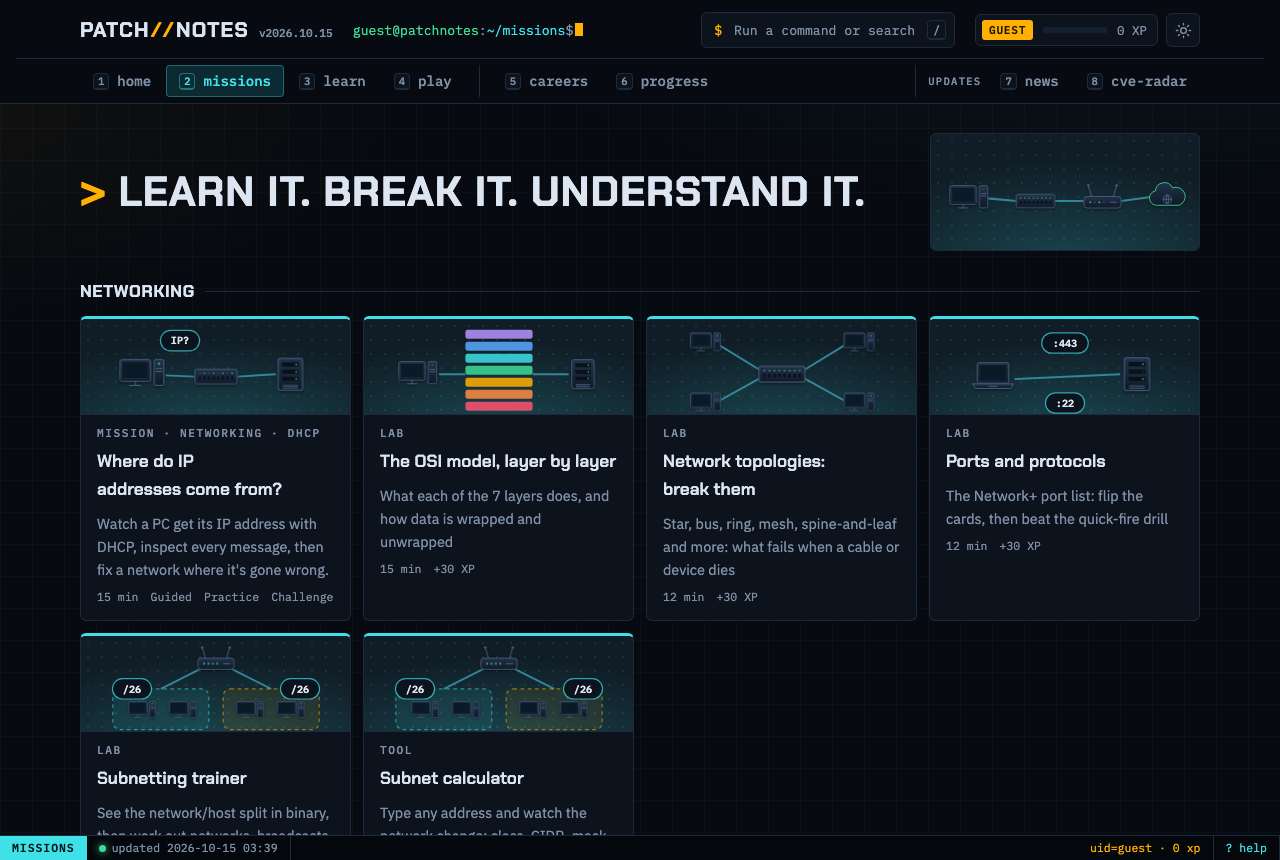
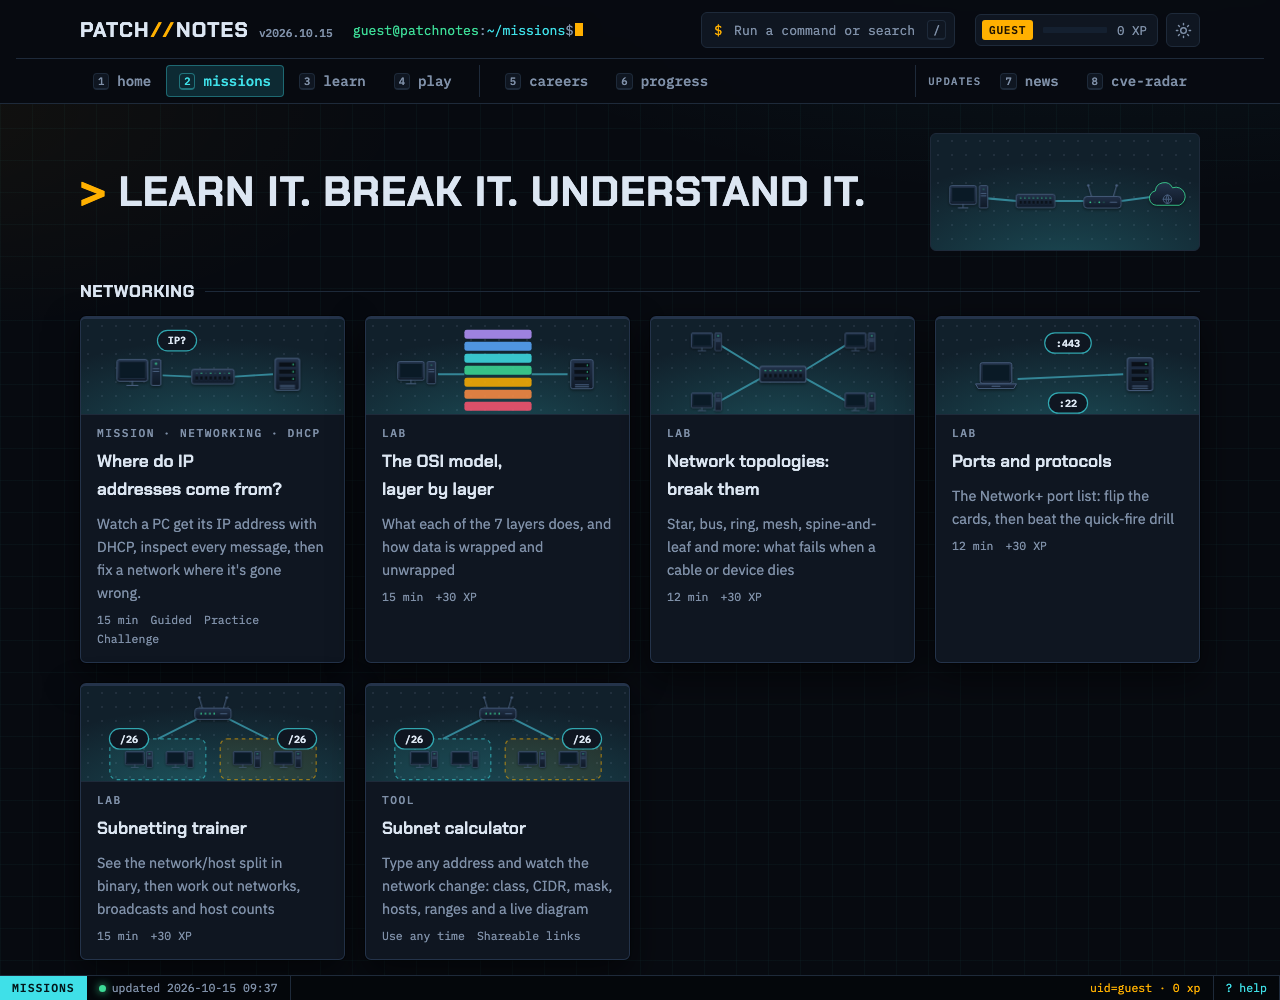
Fix hero animation glitches; clearer card separation; one accent colour
- Hero: drop the pop transform that briefly drew a second copy of a device
  in Safari, and start packets mid-journey instead of parked in the corner
- Cards and panels get the light theme's lift in dark mode too: shadow
  elevation, a top highlight, firmer borders, more space between cards
- One accent colour for every card and header; red and green only where
  they mean attack or success
- Learn page grouped into Foundations, Threats, Defence and Web attacks;
  filter chips in the same order; progress counter no longer wraps

diff --git a/site_template.html b/site_template.html
@@ -12,7 +12,7 @@
    panels styled as terminal windows, and a tmux-style status bar pinned to the bottom on wide screens. Deliberately one dark world. */
 :root {
   --bg: #070A10;          /* console black, blue-biased */
-  --surface: #0D131C;     /* panel */
+  --surface: #0F1621;     /* panel */
   --surface-2: #142030;   /* raised / hover */
   --ink: #DCE6F2;
   --muted: #7F90A8;
@@ -45,6 +45,9 @@
   --faint: #3A4A60; --statusbar: #04070B;
   --dg-line: #2B3D55; --dg-box: #24344A; --dg-strong: #4D6280;
   --hw-stroke: #4A6080; --hw-screen: #0A1A26; --hw-port: #0A1018; --hw-top: #22324A; --hw-bot: #101A28; --hw-shadow: rgba(0, 0, 0, 0.45);
+  --card-line: #24334A;
+  --elev: inset 0 1px 0 rgba(255, 255, 255, 0.05), 0 0 0 1px rgba(0, 0, 0, 0.4), 0 14px 34px rgba(0, 0, 0, 0.55);
+  --elev-hover: inset 0 1px 0 rgba(255, 255, 255, 0.07), 0 0 0 1px rgba(0, 0, 0, 0.4), 0 18px 44px rgba(0, 0, 0, 0.65), 0 0 28px rgba(63, 224, 232, 0.1);
   --sev-critical: #FFB000; --sev-high: #A8740F; --sev-other: #5E4614;
   color-scheme: dark;
 }
@@ -67,6 +70,9 @@
   --faint: #B3BFCF; --statusbar: #E2E8F0;
   --dg-line: #9FB1C7; --dg-box: #B9C6D7; --dg-strong: #7F93AE;
   --hw-stroke: #6F84A0; --hw-screen: #DCE7F2; --hw-port: #E7EDF5; --hw-top: #FFFFFF; --hw-bot: #D9E2EE; --hw-shadow: rgba(15, 27, 45, 0.18);
+  --card-line: #CDD6E3;
+  --elev: 0 1px 2px rgba(15, 27, 45, 0.06), 0 10px 28px rgba(15, 27, 45, 0.1);
+  --elev-hover: 0 2px 4px rgba(15, 27, 45, 0.08), 0 16px 40px rgba(15, 27, 45, 0.16);
   --sev-critical: #7A4300; --sev-high: #B87A12; --sev-other: #E0B866;
   color-scheme: light;
 }
@@ -287,6 +293,7 @@ details.explain summary { cursor: pointer; font-weight: 700; color: var(--brand)
 .lcard .lmeta span { white-space: nowrap; }
 .lcard .done { position: absolute; top: 14px; right: 14px; font: 700 0.7rem var(--font-mono); color: var(--good); background: var(--good-tint); border-radius: 999px; padding: 3px 8px; }
 .progress { display: flex; align-items: center; gap: 12px; font-size: 0.88rem; color: var(--muted); }
+.progress > span:last-child { white-space: nowrap; }
 .progress .trk { flex: 0 1 240px; height: 8px; border-radius: 4px; background: var(--surface-2); overflow: hidden; }
 .progress .trk i { display: block; height: 100%; background: var(--good); }
 .article { display: grid; gap: 22px; max-width: 760px; }
@@ -617,6 +624,7 @@ body.has-status .toast { bottom: calc(44px + env(safe-area-inset-bottom, 0px)); 
 @media (max-width: 900px) { .mission-grid { grid-template-columns: 1fr; } .bubble { max-width: 60%; font-size: 0.7rem; } }
 
 /* ---------- Illustrated cards ---------- */
+.art-card, .card-art { --cat: var(--brand); }
 .art-card { padding-top: 0; overflow: hidden; border-top: 3px solid var(--cat); }
 .card-art { display: grid; place-items: center; height: 96px; margin-inline: -16px; margin-bottom: 4px; background: radial-gradient(120% 140% at 50% 120%, color-mix(in srgb, var(--cat) 22%, transparent), transparent 70%), color-mix(in srgb, var(--cat) 5%, var(--surface)); background-image: radial-gradient(120% 140% at 50% 120%, color-mix(in srgb, var(--cat) 22%, transparent), transparent 70%), radial-gradient(rgba(127, 144, 168, 0.14) 1px, transparent 1.2px); background-size: auto, 14px 14px; border-bottom: 1px solid var(--line); overflow: hidden; }
 .card-art svg { width: 100%; max-width: 240px; height: 100%; overflow: visible; }
@@ -637,8 +645,6 @@ body.has-status .toast { bottom: calc(44px + env(safe-area-inset-bottom, 0px)); 
 .needle { transform-box: fill-box; transform-origin: 100% 100%; }
 .art-card:hover { border-color: var(--cat); border-top-color: var(--cat); box-shadow: 0 12px 32px color-mix(in srgb, var(--cat) 20%, transparent); }
 @media (prefers-reduced-motion: no-preference) {
-  .card-art svg { transition: transform 0.35s cubic-bezier(0.2, 0.8, 0.2, 1); }
-  .art-card:hover .card-art svg { transform: scale(1.06); }
   .needle { transition: transform 0.7s cubic-bezier(0.3, 1.6, 0.5, 1); }
   .art-card:hover .needle { transform: rotate(118deg); }
   .blink { animation: hw-blink 1s steps(1) infinite; }
@@ -854,7 +860,7 @@ body.has-status .toast { bottom: calc(44px + env(safe-area-inset-bottom, 0px)); 
 .hero-dev.sel .lbl, .hero-dev:hover .lbl { fill: var(--brand); }
 .hero-cap { min-height: 3.2em; margin: 0; font-size: 0.88rem; color: var(--muted); }
 .hero-cap b { color: var(--ink); font-family: var(--font-display); }
-@media (prefers-reduced-motion: no-preference) { .hero-dev .halo { transition: opacity 0.2s; } .hero-dev.sel .hw { animation: hw-pop 0.35s ease-out; } @keyframes hw-pop { 40% { transform: var(--t) scale(1.12); } } }
+@media (prefers-reduced-motion: no-preference) { .hero-dev .halo { transition: opacity 0.2s; } }
 @media (max-width: 760px) { .hero { grid-template-columns: minmax(0, 1fr); } .hero-net .lbl { font-size: 12.5px; } }
 @media (prefers-reduced-motion: reduce) { .hero-net .pkt { display: none; } }
 /* Theme toggle */
@@ -994,6 +1000,14 @@ body.has-status .toast { bottom: calc(44px + env(safe-area-inset-bottom, 0px)); 
   .btn.brand::after { content: ""; position: absolute; inset: 0; background: linear-gradient(110deg, transparent 35%, rgba(255, 255, 255, 0.45) 50%, transparent 65%); transform: translateX(-120%); pointer-events: none; }
   .btn.brand:hover::after { transform: translateX(120%); transition: transform 0.7s ease; }
 }
+
+/* Elevation: cards and panels sit clearly above the page in both themes */
+.panel, .lcard, .path, .stat, .gl-item, .changelog { box-shadow: var(--elev); }
+.panel, .lcard, .path, .stat, .gl-item { border-color: var(--card-line); }
+.lcard:hover, .art-card:hover { box-shadow: var(--elev-hover); border-color: rgba(var(--brand-rgb), 0.55); }
+.lessons { gap: 20px; }
+.paths { gap: 18px; }
+.stat-row { gap: 14px; }
 </style>
 
 <!-- recon complete. you found flag 1 of 3: flag{v1ew_s0urce_is_r3con}  (submit it in the command palette: press / then type "submit" and the flag) -->
@@ -1370,10 +1384,10 @@ function heroNet() {
   return `<div class="hero-art"><svg class="hero-net hw-live" viewBox="0 0 470 250" role="group" aria-label="A small network. Select a device to learn what it does.">
     ${HERO_LINKS.map(([a, b]) => `<line class="ln" x1="${P(a)[1]}" y1="${P(a)[2]}" x2="${P(b)[1]}" y2="${P(b)[2]}"/>`).join("")}
     <line class="ln air" x1="46" y1="130" x2="150" y2="44"/>
-    ${HERO_PATHS.map((d, i) => `<circle class="pkt p${i + 1}" r="5"><animateMotion dur="${3.6 + i * 0.6}s" begin="${i * 1.2}s" repeatCount="indefinite" path="${d}" calcMode="linear"/></circle>`).join("")}
+    ${HERO_PATHS.map((d, i) => `<circle class="pkt p${i + 1}" r="5"><animateMotion dur="${3.6 + i * 0.6}s" begin="${-i * 1.2}s" repeatCount="indefinite" path="${d}" calcMode="linear"/></circle>`).join("")}
     ${HERO_DEV.map(([k, x, y, label, side]) => `<g class="hero-dev" data-k="${k}" tabindex="0" role="button" aria-label="${esc(HW_INFO[k][0])}: ${esc(HW_INFO[k][1])}">
       <rect class="halo" x="${x - 34}" y="${y - 30}" width="68" height="${label ? 72 : 60}" rx="12"/>
-      <g style="--t: translate(${x}px, ${y}px)">${hw(k, x, y, 0.72)}</g><text class="lbl" ${side ? `x="${x + 26}" y="${y + 4}" style="text-anchor:start"` : `x="${x}" y="${y + 33}"`}>${esc(label)}</text></g>`).join("")}
+      ${hw(k, x, y, 0.72)}<text class="lbl" ${side ? `x="${x + 26}" y="${y + 4}" style="text-anchor:start"` : `x="${x}" y="${y + 33}"`}>${esc(label)}</text></g>`).join("")}
   </svg><p class="hero-cap" id="hero-cap" aria-live="polite">Tap any device to see what it does.</p></div>`;
 }
 function wireHero() {
@@ -1867,8 +1881,10 @@ document.addEventListener("click", e => {
 
 /* LEARN */
 const LS = { track: "All", gq: "" };
+// Tracks in learning order; any new track in lessons.json is added at the end rather than dropped.
+const LESSON_TRACKS = [...new Set(["Foundations", "Threats", "Defence", "Web attacks", ...DATA.lessons.map(l => l.track)])];
 VIEWS.learn = () => {
-  const tracks = ["All", ...new Set(DATA.lessons.map(l => l.track))];
+  const tracks = ["All", ...LESSON_TRACKS.filter(t => DATA.lessons.some(l => l.track === t))];
   const doneCount = DATA.lessons.filter(l => P.done[l.id]).length;
   main.innerHTML = `<div class="view">
     <div class="view-head with-art">${headArt("learn")}<h1>The concepts behind the headlines</h1>
@@ -1879,17 +1895,20 @@ VIEWS.learn = () => {
     </div>
     <section class="stack" style="gap:12px"><div class="panel-title"><h2 class="eyebrow" style="font-size:0.8rem">Learning paths</h2><span class="muted" style="font-size:0.85rem">Finish a path for +${PATH_XP} XP and a badge</span></div>
       <div class="paths-grid">${DATA.paths.map(pathCard).join("")}</div></section>
-    <div class="lessons" id="lgrid"></div>
+    <div class="stack" id="lgrid" style="gap:30px"></div>
     <section class="panel" style="grid-template-columns:minmax(0,1fr) auto;align-items:center">
       <div class="stack" style="gap:6px"><h2>Glossary</h2><p class="muted">${DATA.glossary.length + Object.keys(DATA.cwe).length} terms explained in plain English, from APT to zero-day, plus the products that keep making headlines. Dotted words across the site open these explanations.</p></div>
       <a class="btn brand" href="#glossary">Open glossary</a>
     </section>
   </div>`;
   const drawGrid = () => {
-    $("lgrid").innerHTML = DATA.lessons.filter(l => LS.track === "All" || l.track === LS.track).map(l => `
-      <a class="lcard art-card" href="#lesson-${esc(l.id)}" style="--cat:${TRACK_COLOR[l.track] || "var(--brand)"}">${cardArt(l.id, l.track)}${P.done[l.id] ? '<span class="done">DONE</span>' : ""}
+    const card = l => `
+      <a class="lcard art-card" href="#lesson-${esc(l.id)}">${cardArt(l.id)}${P.done[l.id] ? '<span class="done">DONE</span>' : ""}
         <span class="eyebrow">${esc(l.track)}</span><h3>${esc(l.title)}</h3><p>${esc(l.hook)}</p>
-        <span class="lmeta"><span>${l.minutes} min</span><span>${esc(l.level)}</span></span></a>`).join("");
+        <span class="lmeta"><span>${l.minutes} min</span><span>${esc(l.level)}</span></span></a>`;
+    // Lessons are grouped by track, in learning order, so "All" reads as sections rather than a mix.
+    const tracks = LESSON_TRACKS.filter(t => (LS.track === "All" || LS.track === t) && DATA.lessons.some(l => l.track === t));
+    $("lgrid").innerHTML = tracks.map(t => `<section class="stack" style="gap:12px">${LS.track === "All" ? `<h2 class="cat-h">${esc(t)}</h2>` : ""}<div class="lessons">${DATA.lessons.filter(l => l.track === t).map(card).join("")}</div></section>`).join("");
   };
   $("ltracks").addEventListener("click", e => { const b = e.target.closest(".chip"); if (!b) return; LS.track = b.dataset.t;
     $("ltracks").querySelectorAll(".chip").forEach(c => c.setAttribute("aria-pressed", c === b)); drawGrid(); });
@@ -1994,8 +2013,6 @@ VIEWS.glossary = () => {
 
 /* LABS */
 const LAB = Object.fromEntries(DATA.labs.map(l => [l.id, l]));
-const CAT_COLOR = { "Networking": "var(--brand)", "Linux": "var(--good)", "Security operations": "var(--sun)", "Ethical hacking": "var(--exploited)" };
-const TRACK_COLOR = { Threats: "var(--exploited)", Defence: "var(--good)", "Web attacks": "var(--likely)", Foundations: "var(--brand)" };
 /* ---------- card scenes: small illustrations built from the device library ---------- */
 const GLYPH = {  // extras drawn next to devices, centred on (0,0)
   mail: '<rect x="-12" y="-8" width="24" height="16" rx="2"/><path d="M-11-7l11 8 11-8"/>',
@@ -2069,8 +2086,8 @@ const HEAD_SCENE = {
   news: { d: [["ap", 100, 50, 1]], t: [["breaking", 100, 80, "bad"], ["CVE", 38, 30], ["KEV", 162, 30, "bad"]] },
   cves: { raw: RADAR_ART },
 };
-const headArt = k => `<span class="head-art card-art" aria-hidden="true" style="--cat:${{ cves: "var(--exploited)", play: "var(--exploited)", learn: "var(--good)", news: "var(--sun)" }[k] || "var(--brand)"}">${sceneSvg(HEAD_SCENE[k])}</span>`;
-const cardArt = (id, cat) => `<span class="card-art" style="--cat:${CAT_COLOR[cat] || TRACK_COLOR[cat] || "var(--brand)"}">${sceneSvg(SCENE[id] || SCENE.networking)}</span>`;
+const headArt = k => `<span class="head-art card-art" aria-hidden="true">${sceneSvg(HEAD_SCENE[k])}</span>`;
+const cardArt = id => `<span class="card-art">${sceneSvg(SCENE[id] || SCENE.networking)}</span>`;
 // Hovering a card sends its packets across the scene.
 document.addEventListener("mouseover", e => {
   const card = e.target.closest?.(".art-card"); if (!card || card.dataset.playing || matchMedia("(prefers-reduced-motion: reduce)").matches) return;
@@ -2093,7 +2110,7 @@ VIEWS.missions = () => {
   </div>`;
 };
 function toolCard() {
-  return `<a class="lcard art-card" href="#subnet-calc" style="--cat:${CAT_COLOR.Networking || "var(--brand)"}">${cardArt("subnet-calc", "Networking")}
+  return `<a class="lcard art-card" href="#subnet-calc">${cardArt("subnet-calc")}
     <span class="eyebrow">Tool</span><h3>Subnet calculator</h3><p>Type any address and watch the network change: class, CIDR, mask, hosts, ranges and a live diagram</p><span class="lmeta"><span>Use any time</span><span>Shareable links</span></span></a>`;
 }
 // The subnet calculator on its own page. The address lives in the URL (#subnet-calc/10.0.0.0/22) so it can be shared.
@@ -2114,13 +2131,13 @@ function calcView(h) {
   }).catch(() => { $("calc-root").innerHTML = `<div class="empty">Couldn't load the calculator. If you opened the file directly, preview with <span class="mono">python3 build.py --offline --serve</span>.</div>`; });
 }
 function labCard(l) {
-  return `<a class="lcard art-card" href="#lab-${esc(l.id)}" style="--cat:${CAT_COLOR[l.category] || "var(--brand)"}">${cardArt(l.id, l.category)}${P.labs[l.id] ? '<span class="done">DONE</span>' : ""}
+  return `<a class="lcard art-card" href="#lab-${esc(l.id)}">${cardArt(l.id)}${P.labs[l.id] ? '<span class="done">DONE</span>' : ""}
     <span class="eyebrow">Lab</span><h3>${esc(l.title)}</h3><p>${esc(l.skill)}</p><span class="lmeta"><span>${l.minutes} min</span><span>+${LAB_XP} XP</span></span></a>`;
 }
 function missionCard(m) {
   const done = Object.keys((P.missions || {})[m.id] || {});
   const all = Object.keys(m.modes);
-  return `<a class="lcard mission-card art-card" href="#mission-${esc(m.id)}" style="--cat:${CAT_COLOR[m.category] || "var(--brand)"}">${cardArt(m.id, m.category)}${done.length === all.length ? '<span class="done">DONE</span>' : ""}
+  return `<a class="lcard mission-card art-card" href="#mission-${esc(m.id)}">${cardArt(m.id)}${done.length === all.length ? '<span class="done">DONE</span>' : ""}
     <span class="eyebrow">Mission · ${esc(m.topic)}</span><h3>${esc(m.title)}</h3><p>${esc(m.summary)}</p>
     <span class="lmeta"><span>${m.minutes} min</span>${all.map(k => `<span>${done.includes(k) ? "✓ " : ""}${esc(m.modes[k].label)}</span>`).join("")}</span></a>`;
 }
